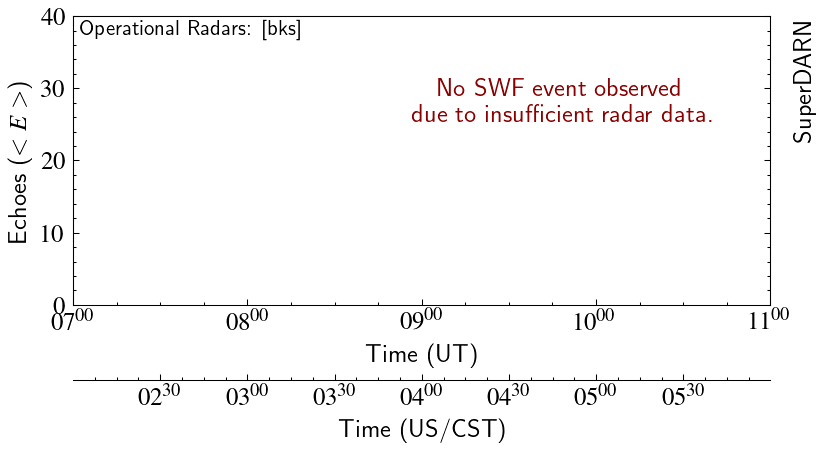
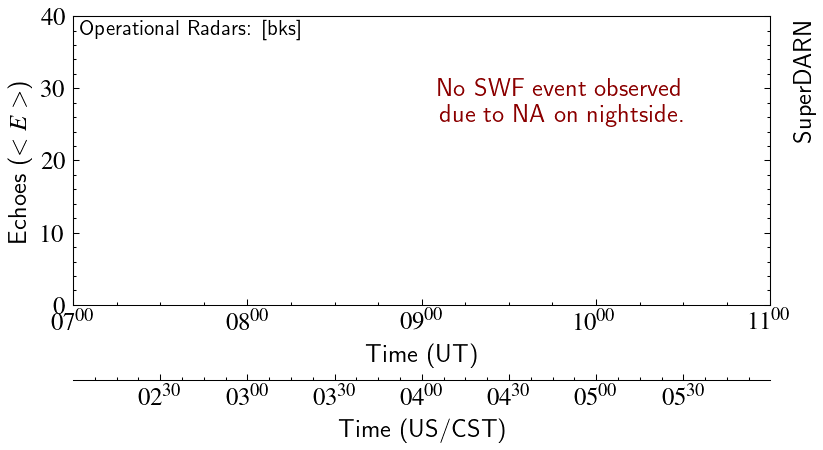
Updated on 14/08/2024

Changed region(s): [[0.486, 0.2178, 0.8809, 0.28]]

diff --git a/py/fetchUtils.py b/py/fetchUtils.py
@@ -16,6 +16,7 @@ import datetime as dt
 import glob
 import os
 
+import traceback
 import matplotlib.dates as mdates
 import matplotlib.pyplot as plt
 import mplstyle
@@ -471,8 +472,13 @@ class SDAnalysis(object):
         if not hasattr(self, "dat"):
             self.dat = {}
             for r in self.rads:
-                fdata = FetchData.fetch(r, self.dates)
-                self.dat[r] = fdata
+                logger.info(f"Loading {r}")
+                try:
+                    fdata = FetchData.fetch(r, self.dates)
+                    self.dat[r] = fdata
+                except:
+                    log = traceback.print_exc()
+                    logger.error(f"Error fetching {r} \n {log}")
         return
 
     # TODO
@@ -634,7 +640,7 @@ class SDAnalysis(object):
         df = pd.DataFrame()
         rads_conttributing = []
         for i, r in enumerate(self.rads):
-            if hasattr(self.dat[r], "frame"):
+            if r in self.dat.keys() and hasattr(self.dat[r], "frame"):
                 o = self.dat[r].frame
                 if len(o) > 0:
                     rads_conttributing.append(r)
